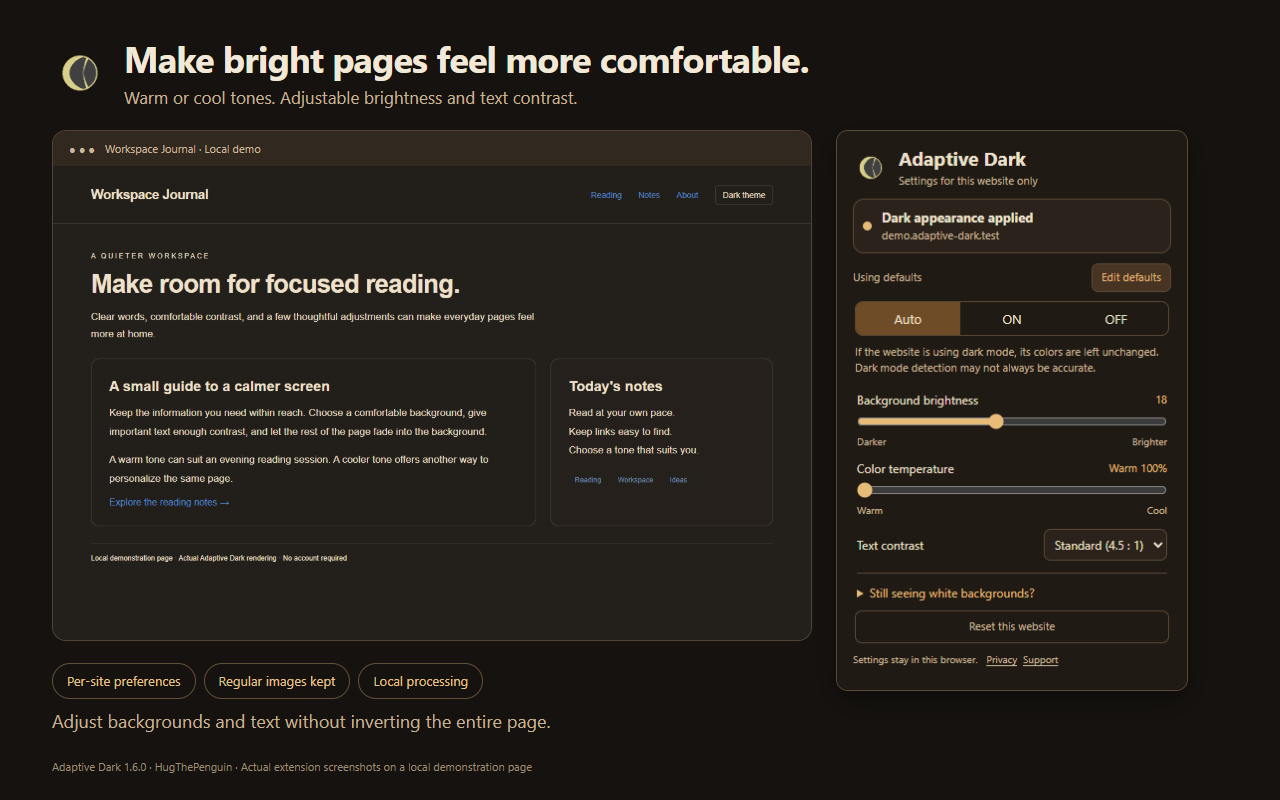
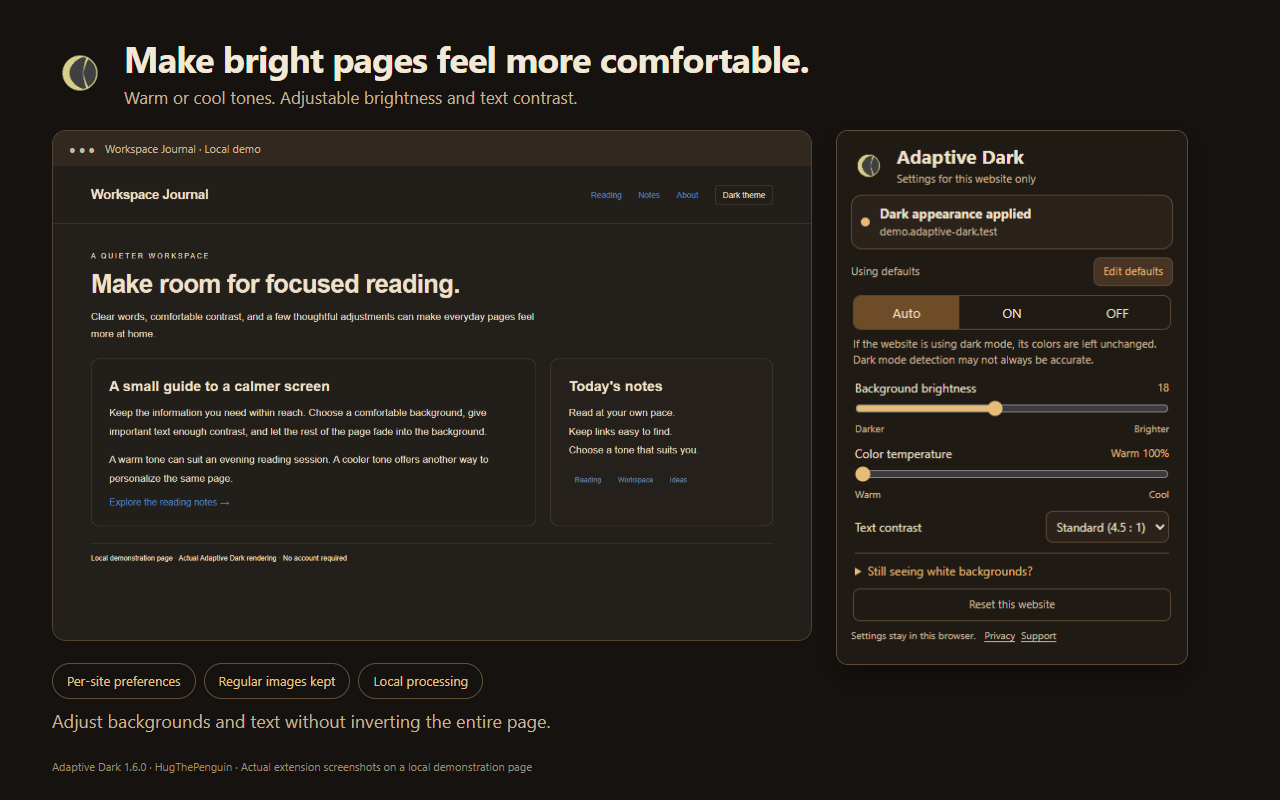
Keep popup controls reachable across platform font metrics

Changed region(s): [[0.6562, 0.1875, 0.9375, 0.8438]]

diff --git a/extension/popup.css b/extension/popup.css
@@ -22,3 +22,6 @@ footer a{color:var(--muted);text-underline-offset:2px;margin-left:6px}
 #controls:disabled{opacity:.55}#adjustments:disabled{opacity:.45}#adjustments:disabled input,#adjustments:disabled select,#adjustments:disabled button{cursor:not-allowed;accent-color:var(--muted)}
 .disabled-reason{margin:9px 0 0}[hidden]{display:none!important}
 .scope-row{display:flex;align-items:center;justify-content:space-between;gap:8px;margin-bottom:9px;font-size:11px;color:var(--muted)}.scope-row button{padding:6px 9px;font-size:11px;color:var(--accent);flex:none}.sr-only{position:absolute;width:1px;height:1px;padding:0;overflow:hidden;clip-path:inset(50%);white-space:nowrap}
+/* Leave room for platform font differences and long hostnames. Overflow stays
+   scrollable so support and settings remain reachable within Chrome's limit. */
+body{padding:14px;max-height:600px;overflow-y:auto;scrollbar-width:thin}.status{margin:8px 0}.hint{margin:6px 0 8px}.row{margin:10px 0 5px}details{margin-top:10px;padding-top:9px}footer{margin-top:8px}
